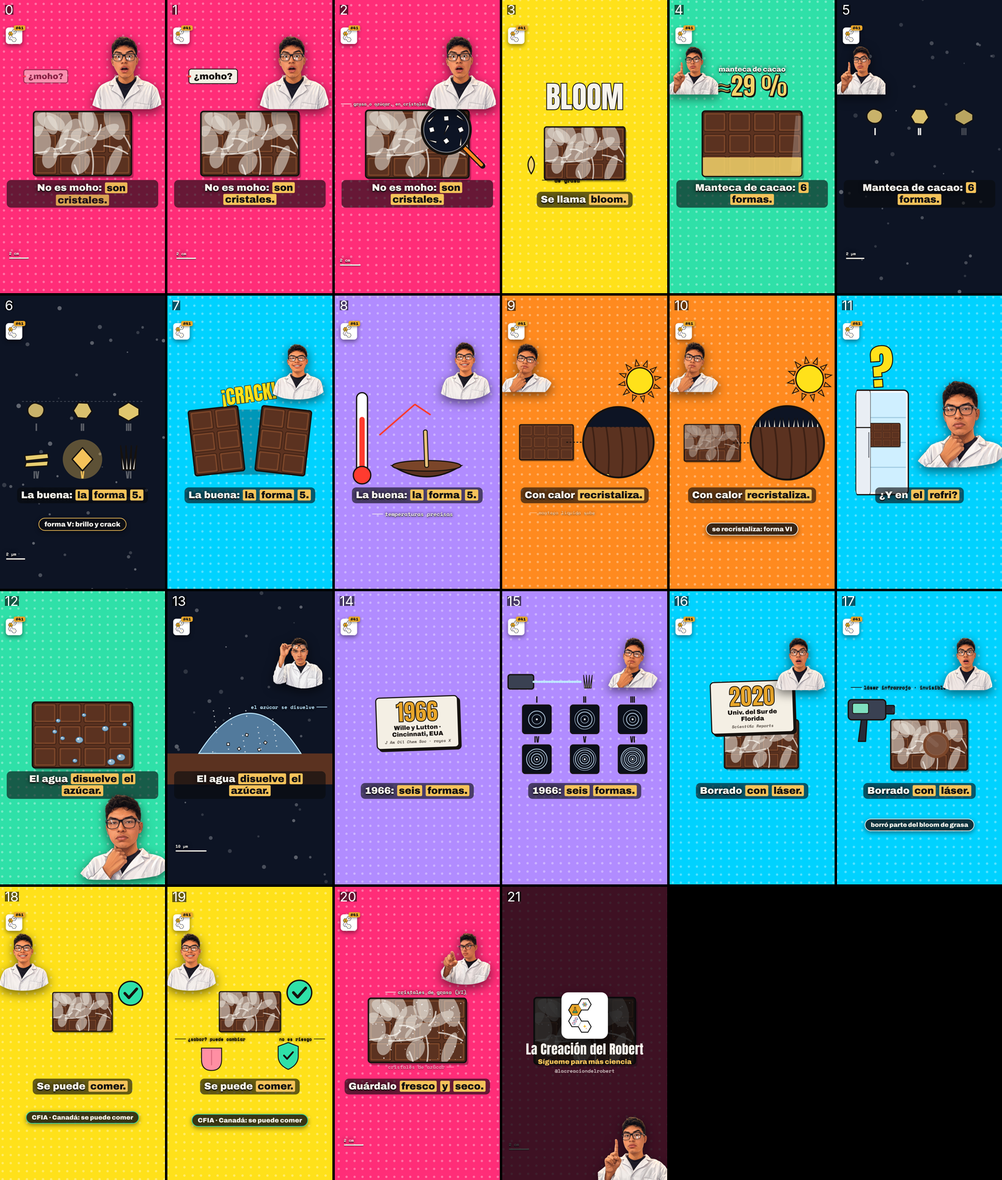
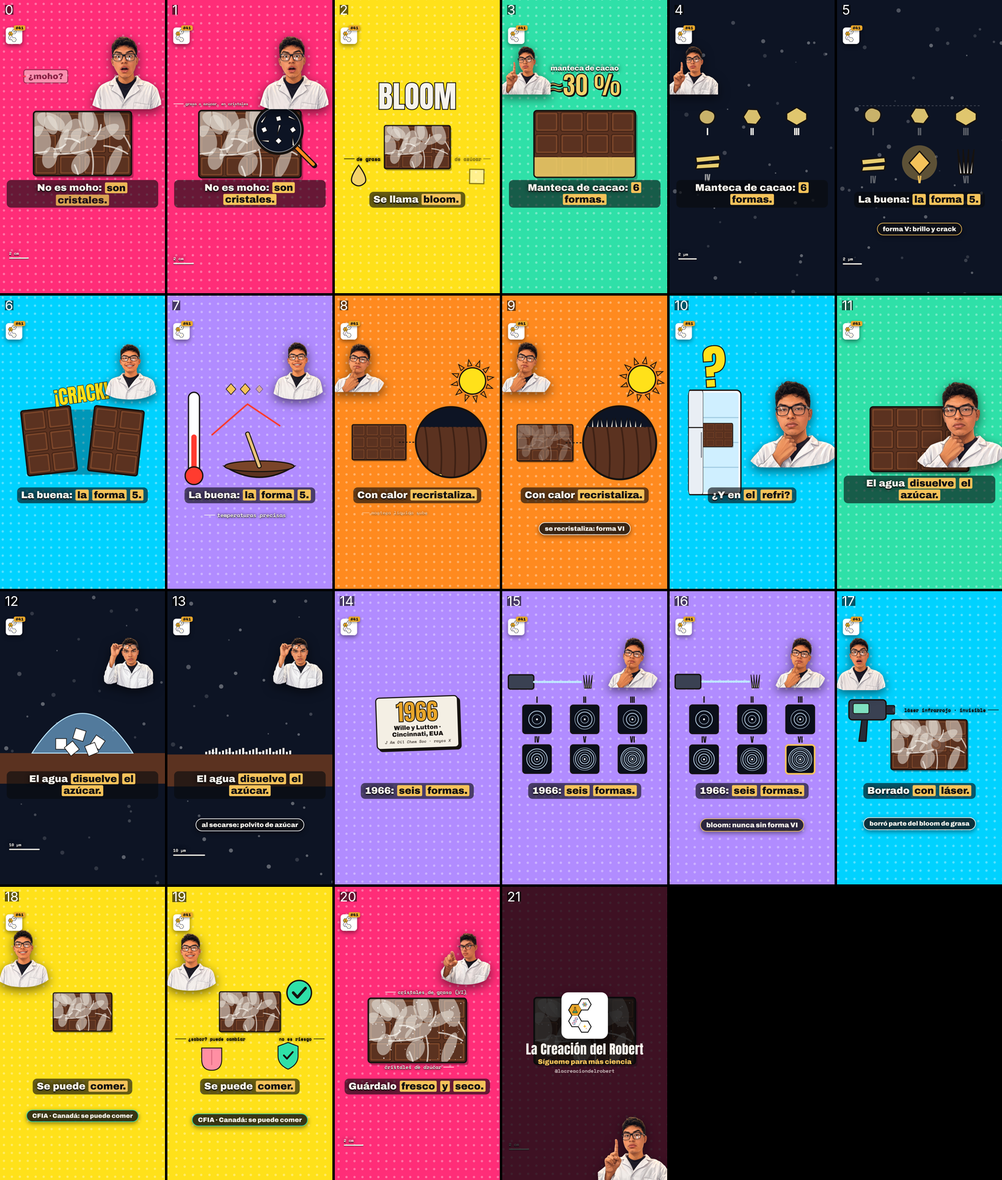
Químico: avance en progreso [sin render]
Claude-Session: https://claude.ai/code/session_0157fpgzuJM3ymsKtSoqvmnt

diff --git a/borradores/qui-43-monoxido/monoxido.jsx b/borradores/qui-43-monoxido/monoxido.jsx
@@ -261,9 +261,9 @@ function Monoxido() {
           <Hemoglobina T={T} x={540} y={900} s={1.25} ocup={ocup} />
           {T > K.D && [0, 1, 2].map((i) => { const u = kprog(T, K.D + 0.4 + i * 0.6, K.D + 2.4 + i * 0.6); return <Mol key={i} tipo="o2" x={klerp(540, i === 1 ? 980 : (i ? 920 : 140), u)} y={klerp(900, 620 + i * 60, u)} s={0.6} rot={T * 50} o={u > 0 ? 0.8 : 0} />; })}
         </SvgCapa>
-        <Etq T={T} at={K.H + 0.3} until={K.D - 0.2} x={60} y={1200} texto="hemoglobina" color="#ffa24c" />
-        <NumeroGigante T={T} at={K.H + 3.0} until={K.D - 0.2} valor={200} dur={1.0} prefijo="×" sufijo="+" etiqueta="más fuerte que el oxígeno" x={680} y={470} tam={170} color={KC.red} />
-        <Medidor T={T} at={K.D + 0.3} until={K.Pr - 0.2} valor={(t) => 1 - 0.7 * kprog(t, K.D + 0.3, K.D + 3.2)} etiqueta="oxígeno que llega" texto={(v) => (v > 0.75 ? 'normal' : 'baja')} x={90} y={470} ancho={900} color={KC.mint} />
+        <Etq T={T} at={K.H + 0.3} until={K.D - 0.2} x={1040} y={470} lado="izq" texto="hemoglobina" color="#ffa24c" />
+        <NumeroGigante T={T} at={K.H + 3.0} until={K.D - 0.2} valor={200} dur={1.0} prefijo="×" sufijo="+" etiqueta="más fuerte que el oxígeno" x={540} y={1520} tam={150} color={KC.red} />
+        <Medidor T={T} at={K.D + 0.3} until={K.Pr - 0.2} valor={(t) => 1 - 0.7 * kprog(t, K.D + 0.3, K.D + 3.2)} etiqueta="oxígeno que llega" texto={(v) => (v > 0.75 ? 'normal' : 'baja')} x={90} y={1460} ancho={900} color={KC.mint} />
       </Escena>
       {/* 6 · pregunta */}
       <Escena T={T} a={K.Pr} b={K.S} zoom={0.1}>
@@ -275,15 +275,15 @@ function Monoxido() {
         <FondoLunares color={KC.mint} />
         <SvgCapa>
           {T < K.S + 3.3 ? <g>
-            <Busto T={T} x={560} y={830} s={1} dolor={kprog(T, K.S + 0.1, K.S + 0.5, kEase.rebote)} mareo={kprog(T, K.S + 0.8, K.S + 1.2, kEase.rebote)} nausea={kprog(T, K.S + 1.4, K.S + 1.8)} />
+            <Busto T={T} x={560} y={770} s={1} dolor={kprog(T, K.S + 0.1, K.S + 0.5, kEase.rebote)} mareo={kprog(T, K.S + 0.8, K.S + 1.2, kEase.rebote)} nausea={kprog(T, K.S + 1.4, K.S + 1.8)} />
           </g> : <g>
             <rect x={0} y={1120} width={KW} height={KH - 1120} fill="#2a8f6e" />
             <CamaDormida T={T} x={560} y={1020} s={1.3} zzz={1 - kprog(T, K.S + 4.0, K.S + 5.2)} />
           </g>}
         </SvgCapa>
-        <Etq T={T} at={K.S + 0.2} until={K.S + 3.2} x={760} y={640} texto="dolor de cabeza" color={KC.ink} tam={32} />
+        <Etq T={T} at={K.S + 0.2} until={K.S + 3.2} x={1050} y={560} lado="izq" texto="dolor de cabeza" color={KC.ink} tam={32} />
         <Etq T={T} at={K.S + 0.9} until={K.S + 3.2} x={300} y={560} lado="izq" texto="mareo" color={KC.ink} tam={32} />
-        <Etq T={T} at={K.S + 1.5} until={K.S + 3.2} x={760} y={1080} texto="náuseas" color={KC.ink} tam={32} />
+        <Etq T={T} at={K.S + 1.5} until={K.S + 3.2} x={790} y={1010} texto="náuseas" color={KC.ink} tam={32} />
         <Chip T={T} at={K.S + 2.0} until={K.S + 3.2} texto="¿gripa?" y={1500} tam={52} borde={KC.blue} />
         <Chip T={T} at={K.S + 3.5} until={K.E - 0.2} texto="dormido, no te das cuenta" y={1500} tam={44} borde={KC.red} />
       </Escena>
@@ -294,13 +294,12 @@ function Monoxido() {
           <rect x={700} y={420} width={300} height={220} fill="#cfe6ff" stroke={KC.ink} strokeWidth={9} />
           {Array.from({ length: 14 }, (_, i) => { const u = (T * 0.25 + i / 14) % 1; return <circle key={i} cx={712 + ((i * 53) % 276)} cy={430 + u * 200} r={7} fill="#fff" />; })}
           <line x1={850} y1={420} x2={850} y2={640} stroke={KC.ink} strokeWidth={6} />
-          <g transform="translate(160 520)"><rect x={-60} y={-60} width={120} height={120} rx={18} fill="#fff" stroke={KC.ink} strokeWidth={7} /><rect x={-14} y={-42} width={28} height={84} fill={KC.red} /><rect x={-42} y={-14} width={84} height={28} fill={KC.red} /></g>
-          {(() => { const rojos = [3, 10, 17, 21, 26, 30, 35]; return Array.from({ length: 37 }, (_, i) => { const c = i % 8, r = Math.floor(i / 8), k = rojos.indexOf(i);
+                    {(() => { const rojos = [3, 10, 17, 21, 26, 30, 35]; return Array.from({ length: 37 }, (_, i) => { const c = i % 8, r = Math.floor(i / 8), k = rojos.indexOf(i);
             const on = k >= 0 ? kprog(T, K.E + 4.0 + k * 0.25, K.E + 4.3 + k * 0.25) : 0;
             const ap = kprog(T, K.E + 0.6 + i * 0.03, K.E + 0.9 + i * 0.03);
-            return <Personita key={i} x={150 + c * 112} y={790 + r * 100} s={1.5 * klerp(0.6, 1, ap)} o={ap} color={mixHex('#f6f3ec', KC.red, on)} />; }); })()}
+            return <Personita key={i} x={150 + c * 112} y={760 + r * 88} s={1.4 * klerp(0.6, 1, ap)} o={ap} color={mixHex('#f6f3ec', KC.red, on)} />; }); })()}
         </SvgCapa>
-        <TarjetaEstudio T={T} at={K.E + 0.2} until={K.E + 3.5} anio="1987" quien="Heckerling · Chicago" revista="Am J Emerg Med · urgencias en invierno" x={540} y={560} />
+        <TarjetaEstudio T={T} at={K.E + 0.2} until={K.E + 3.5} anio="1987" quien="Heckerling · Chicago" revista="Am J Emerg Med · urgencias en invierno" x={400} y={560} />
         <Chip T={T} at={K.E + 1.0} until={K.E + 3.9} texto="37 personas con dolor de cabeza" y={1500} tam={40} borde={KC.blue} />
         <Chip T={T} at={K.E + 4.2} until={K.E + 6.3} texto="7: más del 10 % de su hemoglobina con CO" y={1500} tam={32} borde={KC.red} />
         <MitoTachado T={T} at={K.E + 6.4} tacharEn={K.E + 7.2} until={K.L - 0.2} texto="¿será monóxido?" x={540} y={1500} tam={42} />
@@ -326,13 +325,13 @@ function Monoxido() {
         <FondoLunares color={KC.yellow} />
         <SvgCapa>
           <Cuarto T={T} abierta={0} />
-          <Detector T={T} x={800} y={520} s={1.2} alarma={kprog(T, K.A + 1.6, K.A + 1.8)} />
+          <Detector T={T} x={560} y={500} s={1.1} alarma={kprog(T, K.A + 1.6, K.A + 1.8)} />
           {[[260, 1060], [470, 1080], [640, 1060]].map(([x, y], i) => <g key={i}>
             <Personita x={x} y={y} s={3} color={[KC.orange, KC.blue, KC.mint][i]} />
             {kprog(T, K.A + 0.2 + i * 0.3, K.A + 0.5 + i * 0.3) > 0 && <path d="M 0 0 l 14 -18 l -10 -4 l 14 -20" transform={`translate(${x + 40} ${y - 170})`} stroke={KC.red} strokeWidth={8} fill="none" strokeLinecap="round" strokeLinejoin="round" />}
           </g>)}
         </SvgCapa>
-        <Onomato T={T} at={K.A + 1.7} until={avisoB} x={800} y={720} texto="¡pip pip!" color={KC.red} tam={70} />
+        <Onomato T={T} at={K.A + 1.7} until={avisoB} x={600} y={700} texto="¡pip pip!" color={KC.red} tam={70} />
       </Escena>
       <Escena T={T} a={avisoB} b={K.C} zoom={0.04}>
         <div style={{ position:'absolute', inset:0, background:'#8fd8ff' }}></div>
@@ -355,7 +354,7 @@ function Monoxido() {
           <g opacity={1 - kprog(T, K.C + 0.2, K.C + 1.0)}><Anafre T={T} x={760} y={980} s={1} encendido={1} /></g>
           <g opacity={kprog(T, K.C + 0.6, K.C + 1.2)}><Marca x={760} y={960} ok={false} s={1.3} o={1 - kprog(T, K.C + 2.6, K.C + 3.0)} /></g>
           <NubeCO T={T} x={600} y={820} f={1 - kprog(T, K.C + 0.2, K.C + 2.2)} r={420} />
-          <Detector T={T} x={800} y={520} s={1.2} ok />
+          <Detector T={T} x={560} y={500} s={1.1} ok />
         </SvgCapa>
         <Chip T={T} at={K.C + 1.6} until={K.Ou} texto="anafre: solo al aire libre" y={1500} tam={46} borde={KC.mint} />
       </Escena>
@@ -364,7 +363,7 @@ function Monoxido() {
       <Chip T={T} at={K.Q + 0.4} until={K.Q + 2.3} texto="con mucho oxígeno" x={540} y={620} tam={34} borde={KC.mint} />
       <Chip T={T} at={K.Q + 2.5} until={K.F - 0.2} texto="sin suficiente oxígeno: monóxido" y={1500} tam={40} borde={KC.red} />
       <Etq T={T} at={K.F + 0.3} until={K.Pu - 0.2} x={140} y={720} texto="anafre" color={KC.ink} tam={36} />
-      <Etq T={T} at={K.F + 0.9} until={K.Pu - 0.2} x={1040} y={720} lado="izq" texto="boiler" color={KC.ink} tam={36} />
+      <Etq T={T} at={K.F + 0.9} until={K.Pu - 0.2} x={670} y={900} lado="izq" texto="boiler" color={KC.ink} tam={36} />
       <Chip T={T} at={K.F + 1.4} until={K.Pu - 0.2} texto="cuarto cerrado" y={1500} tam={48} borde={KC.red} />
       <Chip T={T} at={K.G + 0.3} until={K.G + 2.4} texto="monóxido de carbono · CO" y={1500} tam={42} borde={GRIS_CO} />
 
@@ -387,7 +386,7 @@ function Monoxido() {
         [CUES.Que + 0.9, CUES.Fuentes - 0.3, 'avatar_13_senalando_arriba', 'izq-alto'],
         [CUES.Pulmon + 0.3, CUES.Hemoglobina - 0.3, 'avatar_06_pensativo_menton', 'arriba-der'],
         [CUES.Hemoglobina + 2.0, CUES.Pregunta - 0.2, 'avatar_04_bajando_lentes', 'izq-alto'],
-        [CUES.Pregunta + 0.05, CUES.Sintomas + 1.5, 'avatar_07_pensativo_puno', 'grande'],
+        [CUES.Pregunta + 0.05, CUES.Sintomas - 0.05, 'avatar_07_pensativo_puno', 'grande'],
         [CUES.Sintomas + 3.4, CUES.Estudio - 0.3, 'avatar_10_serio_molesto', 'arriba-der'],
         [CUES.Estudio + 3.7, CUES.Lento - 0.3, 'avatar_11_sorprendido', 'arriba-der'],
         [CUES.Lento + 0.5, CUES.Aviso - 0.3, 'avatar_12_perfil_serio', 'izq-alto'],

diff --git a/borradores/qui-42-queso-limon/queso.jsx b/borradores/qui-42-queso-limon/queso.jsx
@@ -282,11 +282,11 @@ function Queso() {
       <Escena T={T} a={K.Hi} b={K.Da} zoom={0.05}>
         <FondoLunares color={KC.yellow} />
         <SvgCapa>
-          <ellipse cx={540} cy={1230} rx={320} ry={70} fill={SUERO} stroke={KC.ink} strokeWidth={8} />
-          {Array.from({ length: 5 }, (_, i) => <Lactosa key={i} x={330 + i * 105} y={1230 + Math.sin(T * 2 + i) * 10} s={0.8} rot={T * 30 + i * 40} o={kprog(T, K.Hi + 1.5 + i * 0.2, K.Hi + 2.0 + i * 0.2)} />)}
-          {[-90, -30, 30, 90].map((dx, i) => <Goteo key={i} T={T} x={540 + dx} y0={1000} y1={1200} cada={0.5} color={SUERO} desde={K.Hi + 0.3 + i * 0.12} hasta={K.Da} r={11} />)}
-          <VasijaColadera T={T} x={540} y={850} s={1.05} />
-          {[[-80, -60, 60], [10, -80, 70], [90, -55, 55]].map(([dx, dy, r], i) => <circle key={i} cx={540 + dx} cy={850 - 160 + dy * 0.4 + Math.sin(T * 2 + i) * 2} r={r * kprog(T, K.Hi + 0.2, K.Hi + 0.8, kEase.rebote)} fill="#fffdf4" stroke="#bdb79a" strokeWidth={4} />)}
+          <ellipse cx={540} cy={1130} rx={320} ry={70} fill={SUERO} stroke={KC.ink} strokeWidth={8} />
+          {Array.from({ length: 5 }, (_, i) => <Lactosa key={i} x={330 + i * 105} y={1130 + Math.sin(T * 2 + i) * 10} s={0.8} rot={T * 30 + i * 40} o={kprog(T, K.Hi + 1.5 + i * 0.2, K.Hi + 2.0 + i * 0.2)} />)}
+          {[-90, -30, 30, 90].map((dx, i) => <Goteo key={i} T={T} x={540 + dx} y0={950} y1={1100} cada={0.5} color={SUERO} desde={K.Hi + 0.3 + i * 0.12} hasta={K.Da} r={11} />)}
+          <VasijaColadera T={T} x={540} y={800} s={1.05} />
+          {[[-80, -60, 60], [10, -80, 70], [90, -55, 55]].map(([dx, dy, r], i) => <circle key={i} cx={540 + dx} cy={800 - 160 + dy * 0.4 + Math.sin(T * 2 + i) * 2} r={r * kprog(T, K.Hi + 0.2, K.Hi + 0.8, kEase.rebote)} fill="#fffdf4" stroke="#bdb79a" strokeWidth={4} />)}
         </SvgCapa>
       </Escena>
       {/* 10 · 1 kg de leche → ≈ 170 g de paneer */}
@@ -315,14 +315,14 @@ function Queso() {
       <Cronometro T={T} at={K.G + 0.05} until={K.Q - 0.3} x={540} y={1500} etiqueta="EXPERIMENTO · LECHE + LIMÓN" />
       <Medidor T={T} at={K.Q + 1.6} until={K.Ca - 0.3} valor={(t) => 0.8 * kprog(t, K.Q + 1.8, K.Q + 3.0, kEase.sale)} etiqueta="proteínas de la leche de vaca" texto={(v) => 'caseína ' + Math.round(v * 100) + ' %'} x={90} y={1460} color={KC.gold2} />
       <Etq T={T} at={K.Q + 3.4} until={K.Ca - 0.3} x={600} y={740} texto="micelas de caseína" tam={36} color={KC.texto} />
-      <Etq T={T} at={K.Ca + 0.4} until={K.Ac - 0.2} x={360} y={640} lado="izq" texto="κ-caseína («pelitos»)" tam={32} color="#ffe7a6" />
+      <Etq T={T} at={K.Ca + 0.4} until={K.Ac - 0.2} x={60} y={560} texto="κ-caseína («pelitos»)" tam={32} color="#ffe7a6" />
       <Chip T={T} at={K.Ca + 1.2} until={K.Ac - 0.2} texto="carga − · se repelen" y={1500} tam={44} borde={AZUL_NEG} />
       <Etq T={T} at={K.Ac + 0.4} until={K.Cu - 0.2} x={40} y={430} texto="ácido cítrico · limón" tam={32} color={KC.orange} />
       <Etq T={T} at={K.Ac + 2.2} until={K.Cu - 0.2} x={40} y={490} texto="ácido acético · vinagre" tam={32} color={KC.orange} />
       <MedidorPH T={T} at={K.Ac + 0.3} until={K.Su - 0.3} valor={ph} y={1500} />
       <Etq T={T} at={K.Cu + 3.8} until={K.Su - 0.3} x={680} y={1240} texto="cuajos" tam={40} color={KC.gold2} />
       <Etq T={T} at={K.Su + 0.6} until={K.Pr - 0.2} x={880} y={690} texto="cuajo" lado="izq" tam={40} color={KC.ink} />
-      <Etq T={T} at={K.Su + 1.4} until={K.Pr - 0.2} x={880} y={1130} texto="suero + lactosa" lado="izq" tam={36} color={KC.ink} />
+      <Etq T={T} at={K.Su + 1.4} until={K.Pr - 0.2} x={1050} y={1010} texto="suero + lactosa" lado="izq" tam={36} color={KC.texto} />
       <Onomato T={T} at={K.Pr + 0.1} until={K.Cl - 0.2} x={300} y={1080} texto="¡fssh!" color={KC.cyan} tam={80} />
       <Chip T={T} at={K.Cl + 1.6} until={K.Cl + 3.0} texto="¡cuidado: quema!" x={400} y={680} tam={40} borde={KC.red} />
       <Chip T={T} at={K.Cl + 2.4} until={K.Es - 0.3} texto="frío: pH ≈ 4.6 · caliente: desde 5.2" y={1500} tam={36} borde={KC.gold} />
@@ -332,8 +332,8 @@ function Queso() {
       <Chip T={T} at={K.Es + 3.2} until={K.Hi - 0.3} texto="coladeras de barro · ≈ 7 000 años" y={1500} tam={38} borde={BARRO} />
       <Etq T={T} at={K.Es + 5.6} until={K.Hi - 0.3} x={640} y={760} texto="grasa de leche" lado="izq" tam={36} color={KC.ink} />
       <Chip T={T} at={K.Hi + 0.6} until={K.Da - 0.3} texto="hipótesis de los autores" y={1500} tam={40} borde={KC.lilac} />
-      <Etq T={T} at={K.Hi + 0.9} until={K.Da - 0.3} x={680} y={560} texto="cuajo" tam={38} color={KC.ink} />
-      <Etq T={T} at={K.Hi + 1.6} until={K.Da - 0.3} x={880} y={1150} texto="suero con lactosa" lado="izq" tam={34} color={KC.ink} />
+      <Etq T={T} at={K.Hi + 0.9} until={K.Da - 0.3} x={680} y={520} texto="cuajo" tam={38} color={KC.ink} />
+      <Etq T={T} at={K.Hi + 1.6} until={K.Da - 0.3} x={1050} y={1040} texto="suero con lactosa" lado="izq" tam={34} color={KC.texto} />
       <Chip T={T} at={K.Da + 2.0} until={K.Ci - 0.3} texto="1 kg de leche de vaca → ≈ 170 g de paneer" y={1500} tam={32} borde={KC.gold} />
       <Chip T={T} at={K.Ci + 1.2} until={K.Ou} texto="caseína + ácido + calor → queso" y={1500} tam={40} borde={KC.mint} />
 

diff --git a/borradores/qui-41-chocolate-blanco/chocolate.jsx b/borradores/qui-41-chocolate-blanco/chocolate.jsx
@@ -165,12 +165,12 @@ function Chocolate() {
       <Escena T={T} a={K.Q} b={K.M}>
         <FondoLunares color={KC.yellow} />
         <SvgCapa>
-          <Tableta T={T} x={TX} y={1000} s={0.8} bloom={1} id="q0" />
+          <Tableta T={T} x={TX} y={960} s={0.65} bloom={1} id="q0" />
           <text x={TX} y={720} textAnchor="middle" transform={`translate(${TX} 720) scale(${kprog(T, K.Q, K.Q + 0.5, kEase.rebote)}) translate(${-TX} -720)`}
             style={{ font:`400 190px ${KF.titulo}` }} fill={KC.texto} stroke={KC.ink} strokeWidth={10} paintOrder="stroke">BLOOM</text>
-          <g opacity={kprog(T, K.Q + 1.2, K.Q + 1.6)}><circle cx={230} cy={1060} r={0} />
-            <path d="M 200 1170 Q 160 1110 200 1060 Q 240 1110 200 1170 Z" transform="translate(0 -40) scale(1)" fill={MANTECA} stroke={KC.ink} strokeWidth={7} /></g>
-          <g opacity={kprog(T, K.Q + 1.8, K.Q + 2.2)}><rect x={830} y={1040} width={80} height={80} fill={AZUCAR} stroke={KC.ink} strokeWidth={7} transform={`rotate(${Math.sin(T * 2) * 8} 870 1080)`} /></g>
+          <g opacity={kprog(T, K.Q + 1.2, K.Q + 1.6)} transform={`translate(170 ${1150 + Math.sin(T * 3) * 6})`}>
+            <path d="M 0 -70 Q -60 10 -40 40 Q 0 80 40 40 Q 60 10 0 -70 Z" fill={MANTECA} stroke={KC.ink} strokeWidth={7} /></g>
+          <g opacity={kprog(T, K.Q + 1.8, K.Q + 2.2)}><rect x={870} y={1100} width={90} height={90} fill={AZUCAR} stroke={KC.ink} strokeWidth={7} transform={`rotate(${Math.sin(T * 2) * 8} 915 1145)`} /></g>
         </SvgCapa>
       </Escena>
       {/* 2 · 30 % es manteca de cacao */}
@@ -307,7 +307,7 @@ function Chocolate() {
           </g>}
         </SvgCapa>
         <TarjetaEstudio T={T} at={K.La + 0.2} until={K.La + 2.0} anio="2020" quien="Univ. del Sur de Florida" revista="Scientific Reports" x={540} y={760} />
-        <Etq T={T} at={K.La + 2.3} until={K.Co - 0.2} x={110} y={640} texto="láser infrarrojo · invisible" tam={30} color={KC.ink} />
+        <Etq T={T} at={K.La + 2.3} until={K.Co - 0.2} x={1040} y={780} lado="izq" texto="láser infrarrojo · invisible" tam={30} color={KC.ink} />
         <Chip T={T} at={K.La + 3.0} until={K.Co - 0.2} texto="borró parte del bloom de grasa" y={1500} tam={38} borde={KC.texto} />
       </Escena>
       {/* 9 · se puede comer */}
@@ -335,9 +335,9 @@ function Chocolate() {
 
       {/* textos del gancho */}
       <MitoTachado T={T} at={K.G + 0.3} tacharEn={K.G + 1.7} until={K.G + 3.0} texto="¿moho?" x={300} y={500} tam={60} />
-      <Etq T={T} at={K.G + 3.3} until={K.Q - 0.2} x={40} y={680} texto="grasa o azúcar, en cristales" lado="der" tam={28} color={KC.texto} />
-      <Etq T={T} at={K.Q + 1.3} until={K.M - 0.2} x={260} y={1180} texto="de grasa" lado="der" tam={34} color={KC.ink} />
-      <Etq T={T} at={K.Q + 1.9} until={K.M - 0.2} x={820} y={1180} texto="de azúcar" lado="izq" tam={34} color={KC.ink} />
+      <Etq T={T} at={K.G + 3.3} until={K.Q - 0.2} x={40} y={680} texto="grasa o azúcar, en cristales" lado="der" tam={24} color={KC.texto} />
+      <Etq T={T} at={K.Q + 1.3} until={K.M - 0.2} x={60} y={1040} texto="de grasa" lado="der" tam={32} color={KC.ink} />
+      <Etq T={T} at={K.Q + 1.9} until={K.M - 0.2} x={1020} y={1040} texto="de azúcar" lado="izq" tam={32} color={KC.ink} />
       <Chip T={T} at={K.F + 0.3} until={fCrack - 0.1} texto="forma V: brillo y crack" y={1500} tam={42} borde={KC.gold2} />
 
       {/* subtítulos (idx = línea de narracion.json) */}
@@ -361,7 +361,7 @@ function Chocolate() {
         [CUES.Pregunta + 0.05, CUES.Azucar + 0.8, 'avatar_07_pensativo_puno', 'grande'],
         [CUES.Azucar + 2.4, CUES.Estudio - 0.3, 'avatar_04_bajando_lentes', 'arriba-der'],
         [CUES.Estudio + 3.4, CUES.Laser - 0.3, 'avatar_06_pensativo_menton', 'arriba-der'],
-        [CUES.Laser + 0.4, CUES.Comer - 0.2, 'avatar_11_sorprendido', 'arriba-der'],
+        [CUES.Laser + 0.4, CUES.Comer - 0.2, 'avatar_11_sorprendido', 'izq-alto'],
         [CUES.Comer + 0.4, CUES.Cierre - 0.2, 'avatar_05_sonriendo_dientes_uniformes', 'izq-alto'],
         [CUES.Cierre + 0.3, CUES.Outro - 0.1, 'avatar_02_apuntando_camara', 'arriba-der']]} />
       <MarcaAgua T={T} tema="quimica" num="41" hasta={K.Ou} />

diff --git a/borradores/qui-40-mayonesa/publicacion.md b/borradores/qui-40-mayonesa/publicacion.md
@@ -1,0 +1,99 @@
+# Publicación · Shot Químico #40 · Esa mayonesa no es una pasta (emulsión de aceite y yema)
+
+Solo versión narrada (desde el 27 oct 2026 ya no hay gemelo mudo; la versión sin voz es solo de revisión).
+
+## Versión narrada
+
+### TikTok
+```text
+Esa mayonesa no es una pasta: es aceite partido en gotitas, apretadas una contra otra. 🥄
+Casi el 80 % de una mayonesa puede ser aceite; el resto es sobre todo yema, agua y vinagre o limón. Pero el aceite y el agua no se mezclan: solos, las gotas se juntan y se separan. Aquí entra la yema: sus proteínas y fosfolípidos se llevan con el agua y con el aceite. Forran la orilla de cada gotita como un escudo, para que no se fusione con otra. Y tantas gotitas apretadas, sin espacio para moverse, la vuelven espesa.
+¿Entonces por qué a veces se corta? En 2024, en Países Bajos, unos científicos hicieron mayonesa a mano siete veces con la misma receta (20 g de yema, 200 g de aceite y 30 g de vinagre), cambiando solo cómo echaban el aceite. Con porciones de 5 o 10 gramos, salió. Con porciones de 20 gramos o más, o todo de golpe, la emulsión se volteó: el aceite quedó por fuera y se cortó.
+Lo curioso: en Estados Unidos, la norma de la FDA dice que la mayonesa lleva al menos 65 % de aceite vegetal; con menos, no se puede vender con ese nombre.
+El dibujo es esquemático.
+Fuentes: Ghaffari et al. 2024 (Physics of Fluids) · Suhag 2024 (Applied Sciences) · FDA 21 CFR 169.140 · Guilmineau y Kulozik 2007.
+¿A ti ya se te cortó alguna vez la mayonesa? 👇
+Shot Químico #40 · La Creación del Robert
+Soy Robert, de La Creación del Robert 🌱
+#LaCreacionDelRobert #Quimica #Mayonesa #Emulsion #CienciaEnLaCocina
+```
+
+### Instagram Reels
+```text
+Esa mayonesa no es una pasta: es aceite partido en gotitas, apretadas una contra otra. 🥄
+Casi el 80 % puede ser aceite. Las proteínas y fosfolípidos de la yema se llevan con el agua y con el aceite, y forran cada gotita como un escudo para que no se fusione con otra. En 2024, en Países Bajos, hicieron mayonesa a mano siete veces: con porciones de 5 o 10 g de aceite salió; con 20 g o más, o todo de golpe, se volteó y se cortó. Y en EE. UU., sin al menos 65 % de aceite no se puede vender como mayonesa.
+El dibujo es esquemático. Fuentes en el primer comentario.
+¿A ti ya se te cortó alguna vez? 👇
+Shot Químico #40 · La Creación del Robert
+Soy Robert, de La Creación del Robert 🌱
+#LaCreacionDelRobert #Quimica #Mayonesa #Emulsion #CienciaEnLaCocina
+```
+
+### YouTube Shorts
+Título:
+```text
+Esa mayonesa no es una pasta: es aceite 🥄 | Shot Químico #40
+```
+Descripción:
+```text
+Esa mayonesa no es una pasta: es aceite partido en gotitas, apretadas una contra otra.
+La mayonesa es una emulsión de aceite en agua: el aceite puede llegar a cerca del 80 % y el resto es sobre todo yema, agua y vinagre o limón. El aceite y el agua no se mezclan, y sin ayuda las gotas se juntan y se separan. Las proteínas, fosfolípidos y lipoproteínas de la yema pueden interactuar con el agua y con el aceite: se acomodan en la orilla de cada gotita y forman una película que evita que las gotas se fusionen. Como las gotitas quedan muy apretadas, la mezcla se vuelve espesa.
+¿Por qué se corta? En 2024, un equipo de Radboud University, Unilever y Wageningen (Países Bajos) preparó mayonesa a mano siete veces con 20 g de yema, 200 g de aceite y 30 g de vinagre, cambiando solo cómo agregaban el aceite. Con porciones de 5 o 10 g se formó la mayonesa (aceite en agua); con porciones de 20 g o más, o los 200 g de una vez, la emulsión se invirtió (agua en aceite): se cortó.
+Dato curioso: en Estados Unidos, la norma de la FDA (21 CFR 169.140) exige al menos 65 % de aceite vegetal (en peso) para llamar "mayonesa" a un producto.
+El dibujo es esquemático.
+Fuentes:
+- Ghaffari M., Bot A., Tinnevelt G.H., Brussee R., Jansen J.J. (2024). Success and failure in mayonnaise preparation in the kitchen. Physics of Fluids 36, 124123. https://doi.org/10.1063/5.0245176
+- Suhag R. (2024). Egg Yolk, a Multifunctional Emulsifier: New Insights on Factors Influencing and Mechanistic Pathways in Egg Yolk Emulsification. Applied Sciences 14(21):9692. https://doi.org/10.3390/app14219692
+- U.S. FDA. 21 CFR 169.140 Mayonnaise. https://www.ecfr.gov/current/title-21/chapter-I/subchapter-B/part-169/subpart-B/section-169.140
+- Guilmineau F., Kulozik U. (2007). Influence of a thermal treatment on the functionality of hens egg yolk in mayonnaise. J Food Eng 78:648–654. https://doi.org/10.1016/j.jfoodeng.2005.11.002
+¿A ti ya se te cortó alguna vez la mayonesa? 👇
+Shot Químico #40 · La Creación del Robert
+Soy Robert, de La Creación del Robert 🌱
+#Shorts #Quimica #Mayonesa
+```
+
+### Facebook Reels
+```text
+Esa mayonesa no es una pasta: es aceite partido en gotitas, apretadas una contra otra. 🥄 La yema forra cada gotita como un escudo para que no se fusione con otra. Y si echas el aceite muy de golpe, la emulsión se voltea y se corta.
+¿A ti ya se te cortó alguna vez? 👇
+Shot Químico #40 · La Creación del Robert
+Soy Robert, de La Creación del Robert 🌱
+#LaCreacionDelRobert #Quimica #Mayonesa
+```
+
+### LinkedIn
+```text
+La mayonesa no es una pasta: es aceite partido en gotitas, apretadas una contra otra, en una emulsión que puede llegar a cerca del 80 % de aceite.
+Lo que la sostiene son los emulsionantes de la yema: proteínas, fosfolípidos y lipoproteínas que interactúan con el agua y con el aceite y forman una película en la orilla de cada gota, evitando que se fusionen (Suhag, Applied Sciences, 2024).
+El proceso importa tanto como la receta. En 2024, Ghaffari y colegas (Radboud University, Unilever y Wageningen, Países Bajos) prepararon mayonesa a mano siete veces con la misma receta y la siguieron con imágenes hiperespectrales en infrarrojo cercano: con porciones de 5 o 10 g de aceite se formó la emulsión; con porciones de 20 g o más, o todo de una vez, se invirtió de aceite-en-agua a agua-en-aceite. Proponen el método para vigilar en tiempo real la calidad de emulsiones industriales.
+Y un dato regulatorio: en EE. UU., la FDA exige al menos 65 % de aceite vegetal para llamar "mayonesa" a un producto (21 CFR 169.140).
+¿Qué otro proceso de cocina te gustaría ver explicado con química?
+Shot Químico #40 · La Creación del Robert
+Soy Robert, de La Creación del Robert 🌱
+#Quimica #CienciaDeAlimentos #Emulsiones #LaCreacionDelRobert
+```
+
+### X
+```text
+Esa mayonesa no es una pasta: es aceite en gotitas que la yema forra para que no se junten. En 2024 hicieron 7 mayonesas a mano: si echas el aceite de golpe, se voltea y se corta. 🥄 Shot Químico #40 #Quimica
+```
+
+### Threads
+```text
+Esa mayonesa no es una pasta: es aceite partido en gotitas, apretadas una contra otra. 🥄
+La yema forra cada gotita como un escudo para que no se fusione con otra. Y en un estudio de 2024 en Países Bajos, echar el aceite en porciones de 20 g o más la hizo voltearse y cortarse.
+¿A ti ya se te cortó alguna vez?
+Shot Químico #40 · La Creación del Robert
+Soy Robert, de La Creación del Robert 🌱
+#Quimica
+```
+
+## Comentario fijado (fuentes)
+```text
+Fuentes:
+1. Ghaffari M., Bot A., Tinnevelt G.H., Brussee R., Jansen J.J. (2024). Success and failure in mayonnaise preparation in the kitchen. Physics of Fluids 36, 124123. doi:10.1063/5.0245176 ("the fraction of dispersed oil can be close to 80%"; siete pruebas a mano.)
+2. Suhag R. (2024). Egg Yolk, a Multifunctional Emulsifier. Applied Sciences 14(21):9692. doi:10.3390/app14219692
+3. U.S. FDA. 21 CFR 169.140 Mayonnaise: "not less than 65 percent by weight of vegetable oil."
+4. Guilmineau F., Kulozik U. (2007). Influence of a thermal treatment on the functionality of hens egg yolk in mayonnaise. J Food Eng 78:648–654. doi:10.1016/j.jfoodeng.2005.11.002
+El dibujo es esquemático.
+```

diff --git a/borradores/qui-42-queso-limon/guion.md b/borradores/qui-42-queso-limon/guion.md
@@ -6,7 +6,7 @@
 - **No repite:** el #16 (ceviche: el ácido desnaturaliza proteínas del pescado) ni el #15 (chile y leche: la caseína y la capsaicina). Aquí el tema es la carga de las micelas de caseína y el punto isoeléctrico; la quimosina (cuajo de Biotecnológico) no aparece.
 - **Seguridad:** la leche va muy caliente; en pantalla, la olla se maneja con guante/agarradera y el chip "¡quema!" aparece al calentar. No se da ningún consejo médico.
 - **Duración:** voz 944 caracteres / ≈ 170 palabras (≈ 57.9 s) + cierre 3.5 s → **≈ 61.4 s** (`node motor/kit/estimar-escenas.mjs borradores/qui-42-queso-limon --outro 3.5`).
-- **Estado:** guion escrito, pendiente de verificación independiente (`verificacion.md`). Voz pendiente de aprobación de Robert.
+- **Estado:** guion verificado (`verificacion.md`), animación lista (`queso.jsx`, revisión en `revision/hoja.png`), voz pendiente de aprobación de Robert (~944 créditos).
 
 ## Versión narrada
 
@@ -23,10 +23,30 @@
 | 8 | Estudio | En 2012, químicos de Bristol analizaron coladeras de barro de unos 7 mil años halladas en Polonia: tenían grasa de leche. | Tarjeta "2012 · Universidad de Bristol · *Nature*". Mapa de Polonia con un punto; una vasija de barro con agujeritos (coladera) de la que sale un brillo "grasa de leche". Contador "≈ 7 000 años". |
 | 9 | Hipotesis | Su interpretación: ahí separaban cuajo y suero para hacer quesos con menos lactosa. | La coladera antigua escurre: arriba queda el cuajo, abajo cae el suero con bolitas de lactosa. Chip "hipótesis de los autores". |
 | 10 | Dato | Y ojo: un kilo de leche de vaca da apenas unos 170 gramos de paneer. | Báscula: 1 kg de leche de un lado; del otro, un cubito de queso "≈ 170 g" y una jarra enorme de suero. |
-| 11 | Cierre | Así que esa leche no se echó a perder: el limón la convirtió en queso. | **Regreso a la olla del inicio**: la misma olla, ahora con la manta de cielo y un bloque de queso blanco; etiqueta "caseína + ácido + calor → queso". Cronómetro detenido. |
+| 11 | Cierre | Así que esa leche no se echó a perder: el limón la convirtió en queso. | **Regreso a la olla del inicio**: la misma olla, ahora con la manta de cielo y un bloque de queso blanco; etiqueta "caseína + ácido + calor → queso". |
 | — | Outro | (sin voz) | `CierreMarca` con el logo de química (matraz) y Robert señalando. |
 
-**Música:** cama grave y continua, cálida (de cocina), siempre debajo de la voz. Efectos en el mismo cuadro: exprimir el limón, burbujeo de la leche, "boing" de las micelas que rebotan, "tic" de cada carga que se apaga, "plop" de las micelas que se pegan, chorro del suero, "fssh" de la flama, golpe de la tarjeta del estudio, báscula que se inclina.
+**Música:** cama grave y continua, cálida (de cocina), siempre debajo de la voz. Efectos en el mismo cuadro: exprimir el limón, burbujeo de la leche, "boing" de las micelas que rebotan, "tic" de cada carga que se apaga, "plop" de las micelas que se pegan, chorro del suero, "fssh" de la flama, golpe de la tarjeta del estudio, cartón → cubito y conteo hasta 170 g.
+
+## Robert en pantalla
+
+Tiempos de la base sin voz (atados a cada escena). Grande en «¿Y entonces para qué calentarla?» y en el dato de los 170 g.
+
+| # | Entra (s) | Sale (s) | Pose | Lado | Reacciona a |
+|---|---|---|---|---|---|
+| 1 | 0.0 | 4.3 | 11_sorprendido | `gancho` | «la convertiste en queso» |
+| 2 | 5.6 | 9.3 | 13_senalando_arriba | `izq-alto` | «en bolitas: las micelas» |
+| 3 | 14.8 | 18.8 | 06_pensativo_menton | `arriba-der` | «les va quitando esa carga» |
+| 4 | 20.6 | 27.6 | 05_sonriendo_dientes_uniformes | `izq-alto` | «forman cuajos blancos» / el suero |
+| 5 | 28.5 | 31.8 | 07_pensativo_puno | `grande` | «¿Y entonces para qué calentarla?» |
+| 6 | 32.6 | 36.8 | 13_senalando_arriba | `izq-alto` | «atrapa proteínas que se irían al suero» |
+| 7 | 40.5 | 44.0 | 04_bajando_lentes | `arriba-der` | «tenían grasa de leche» |
+| 8 | 44.7 | 49.1 | 06_pensativo_menton | `izq-alto` | «su interpretación» |
+| 9 | 49.6 | 53.3 | 11_sorprendido | `grande-izq` | «apenas unos 170 gramos» |
+| 10 | 53.9 | 57.8 | 02_apuntando_camara | `arriba-der` | «el limón la convirtió en queso» |
+| — | 57.9 | 61.4 | 13_senalando_arriba | CierreMarca | tarjeta de cierre |
+
+**Total:** 10 apariciones · ≈ 42 s en pantalla (+ cierre 3.5 s) · 7 poses distintas · nunca la misma dos veces seguidas.
 
 ## Fuentes (cada dato se abrió en la fuente original el 29 oct 2026)
 

diff --git a/borradores/qui-46-platano-etileno/guion.md b/borradores/qui-46-platano-etileno/guion.md
@@ -40,7 +40,7 @@
    > "Ripening in a bowl or paper bag can be enhanced by placing one ripe apple with every 5 to 7 pieces of fruit to be ripened. Apples produce ethylene that speeds ripening. (Fuji and Granny Smith apples do not produce much ethylene and do not enhance ripening.)" · "Do not place produce in sealed plastic bags on the counter because this slows ripening and may increase off-odors and decay"
 5. **1901, Neljubov, San Petersburgo, chícharos que crecen de lado por el etileno del gas de alumbrado** — Hao, Li y Guo (2025), fuente 1:
    > "In 1901, Dimitry Nikolayevich Neljubov … a young researcher at the Botanical Institute of St Petersburg, identified atypical growth in pea seedlings near greenhouse gas pipes: stems reoriented horizontally" · "he established that illuminating gas components caused this response"
-   Y Keunen E. et al. "Ethylene and Metal Stress: Small Molecule, Big Impact." *Front Plant Sci* 7:23 (2016). PMC4735362:
+   Y Keunen E. et al. "Ethylene and Metal Stress: Small Molecule, Big Impact." *Front Plant Sci* 7:23 (2016). PMID 26870052 · PMC4735362:
    > "In 1901, the Russian plant physiologist Neljubov reported that etiolated pea plants grew horizontally in the laboratory and upright in outside air (Neljubov, 1901). He attributed this abnormal growth response to ethylene in illuminating gas"
    (Original: Neljubov D. "Ueber die horizontale Nutation der Stengel von *Pisum sativum* und einiger anderen Pflanzen." *Beih. Bot. Centralbl.* 10:128–139, 1901.)
 6. **1934, Gane, Cambridge, gas de ~60 libras (≈ 27 kg) de manzanas; primera prueba química de que las plantas producen etileno** — Hao, Li y Guo (2025), fuente 1:
